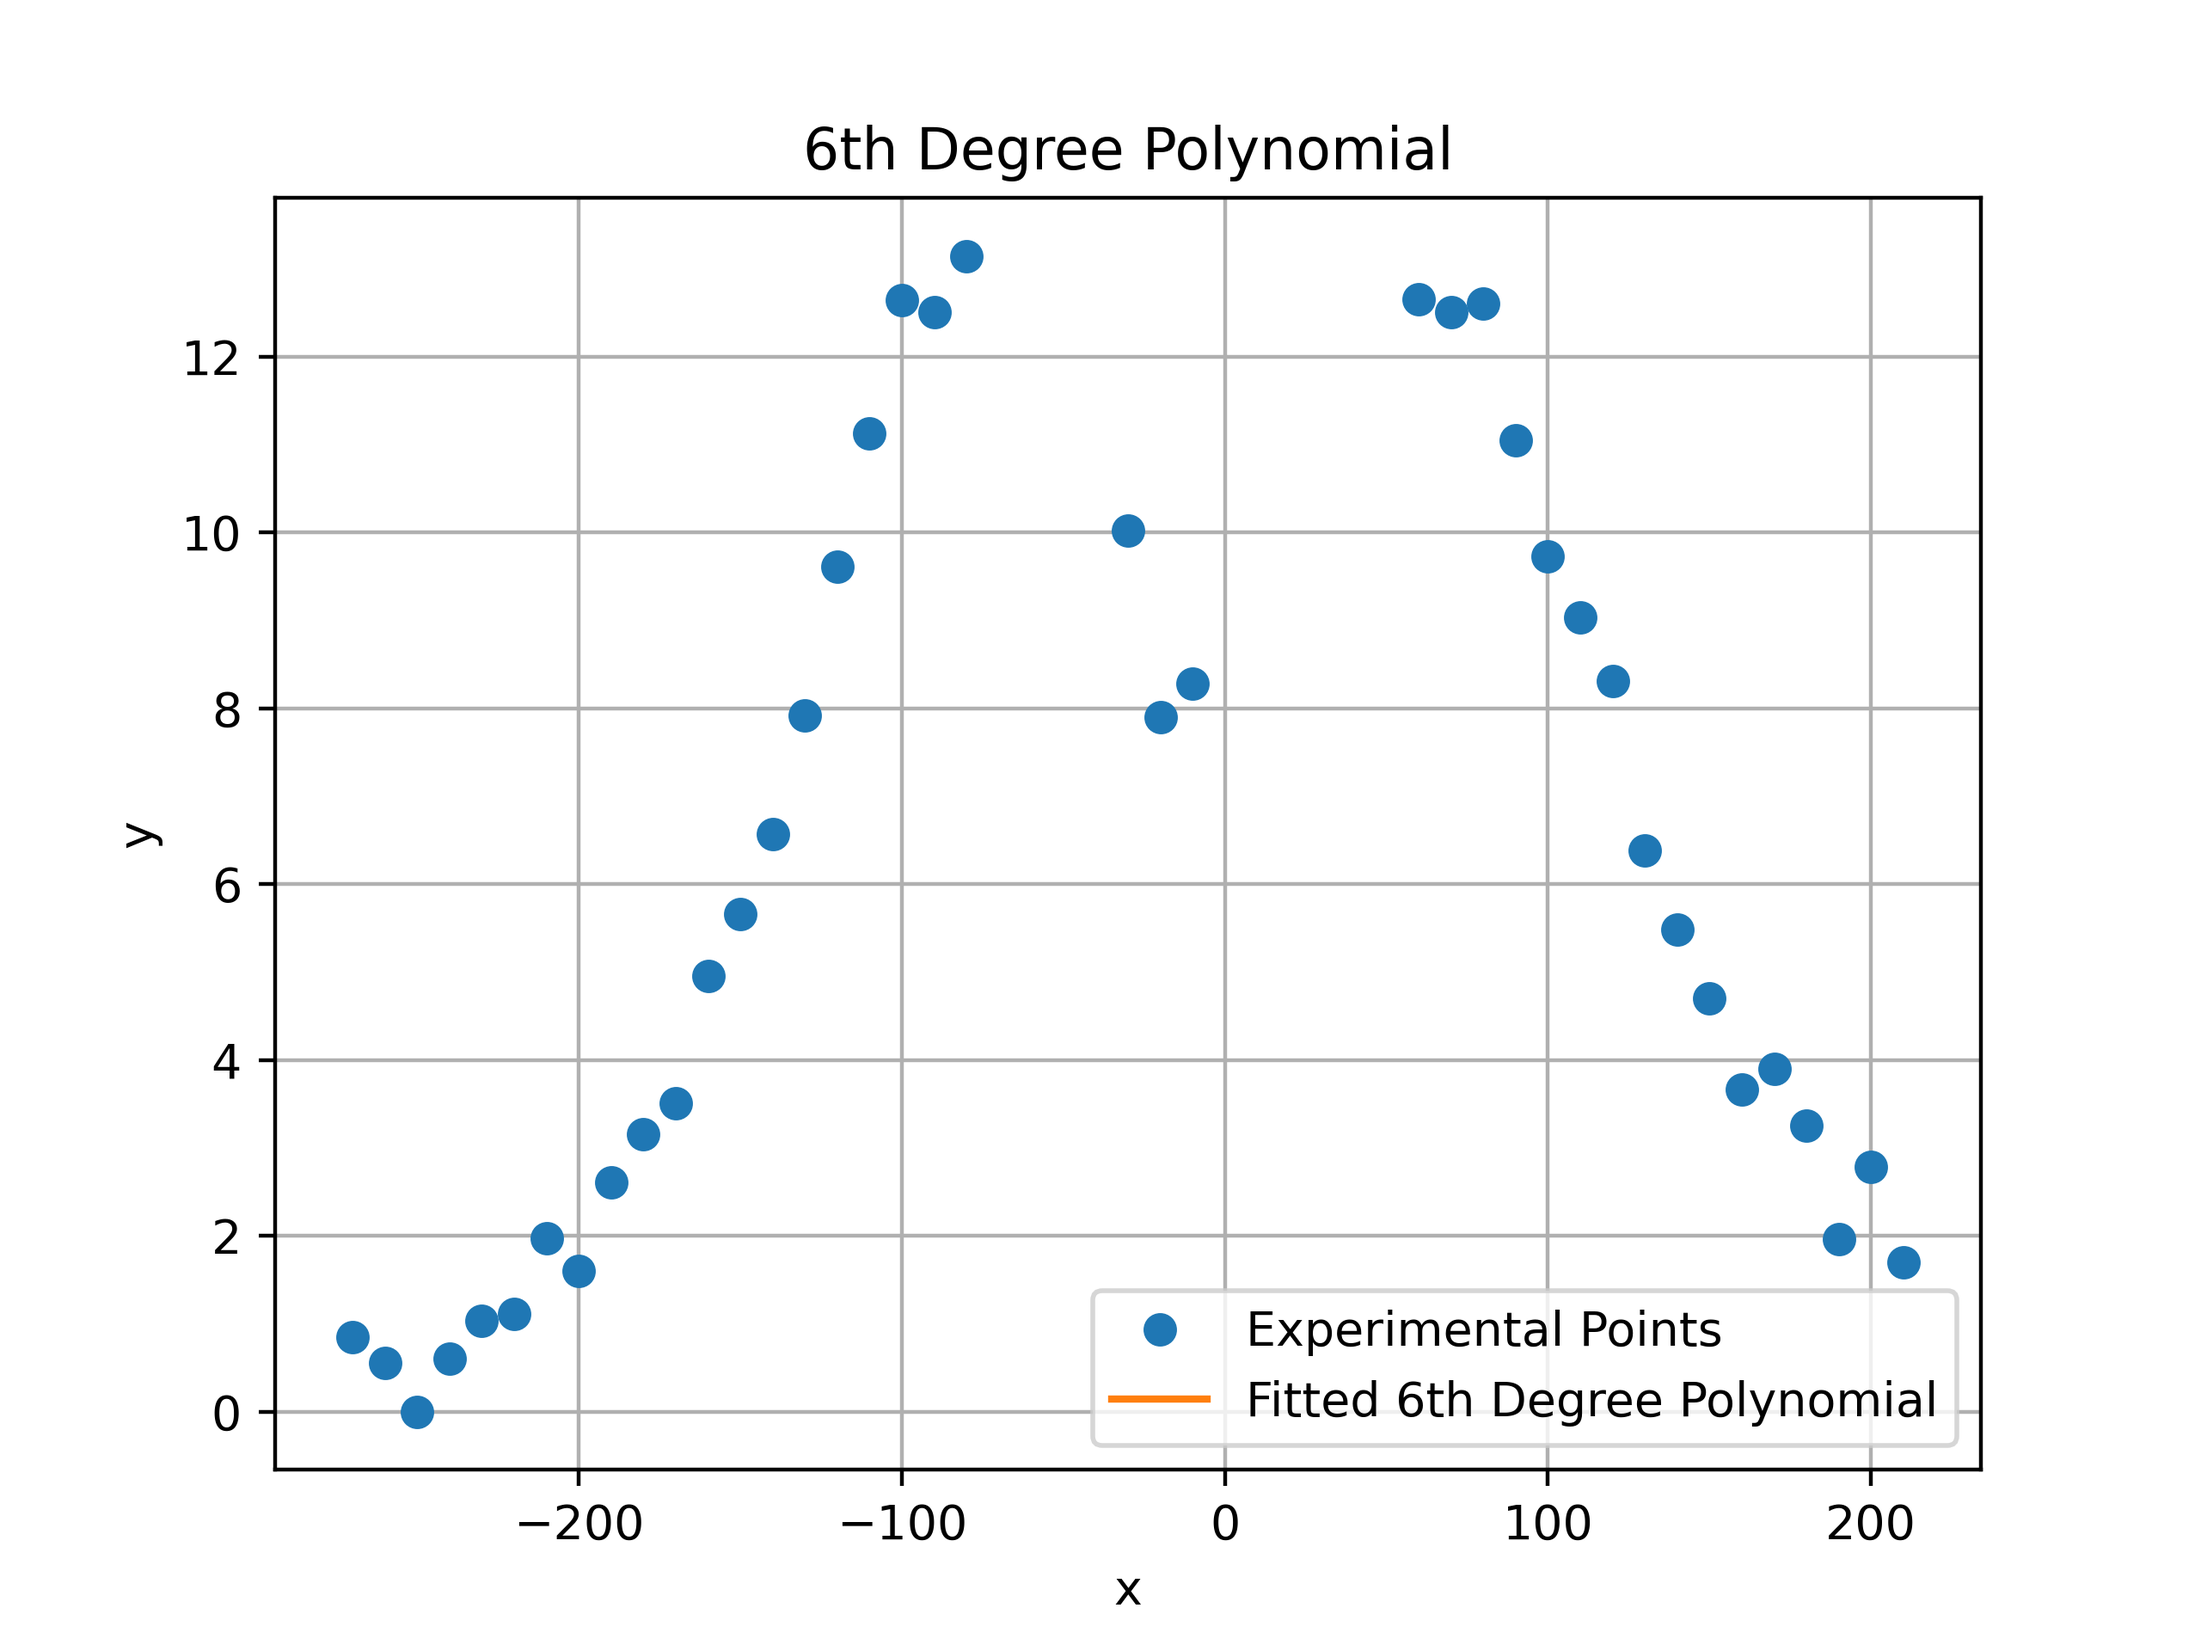
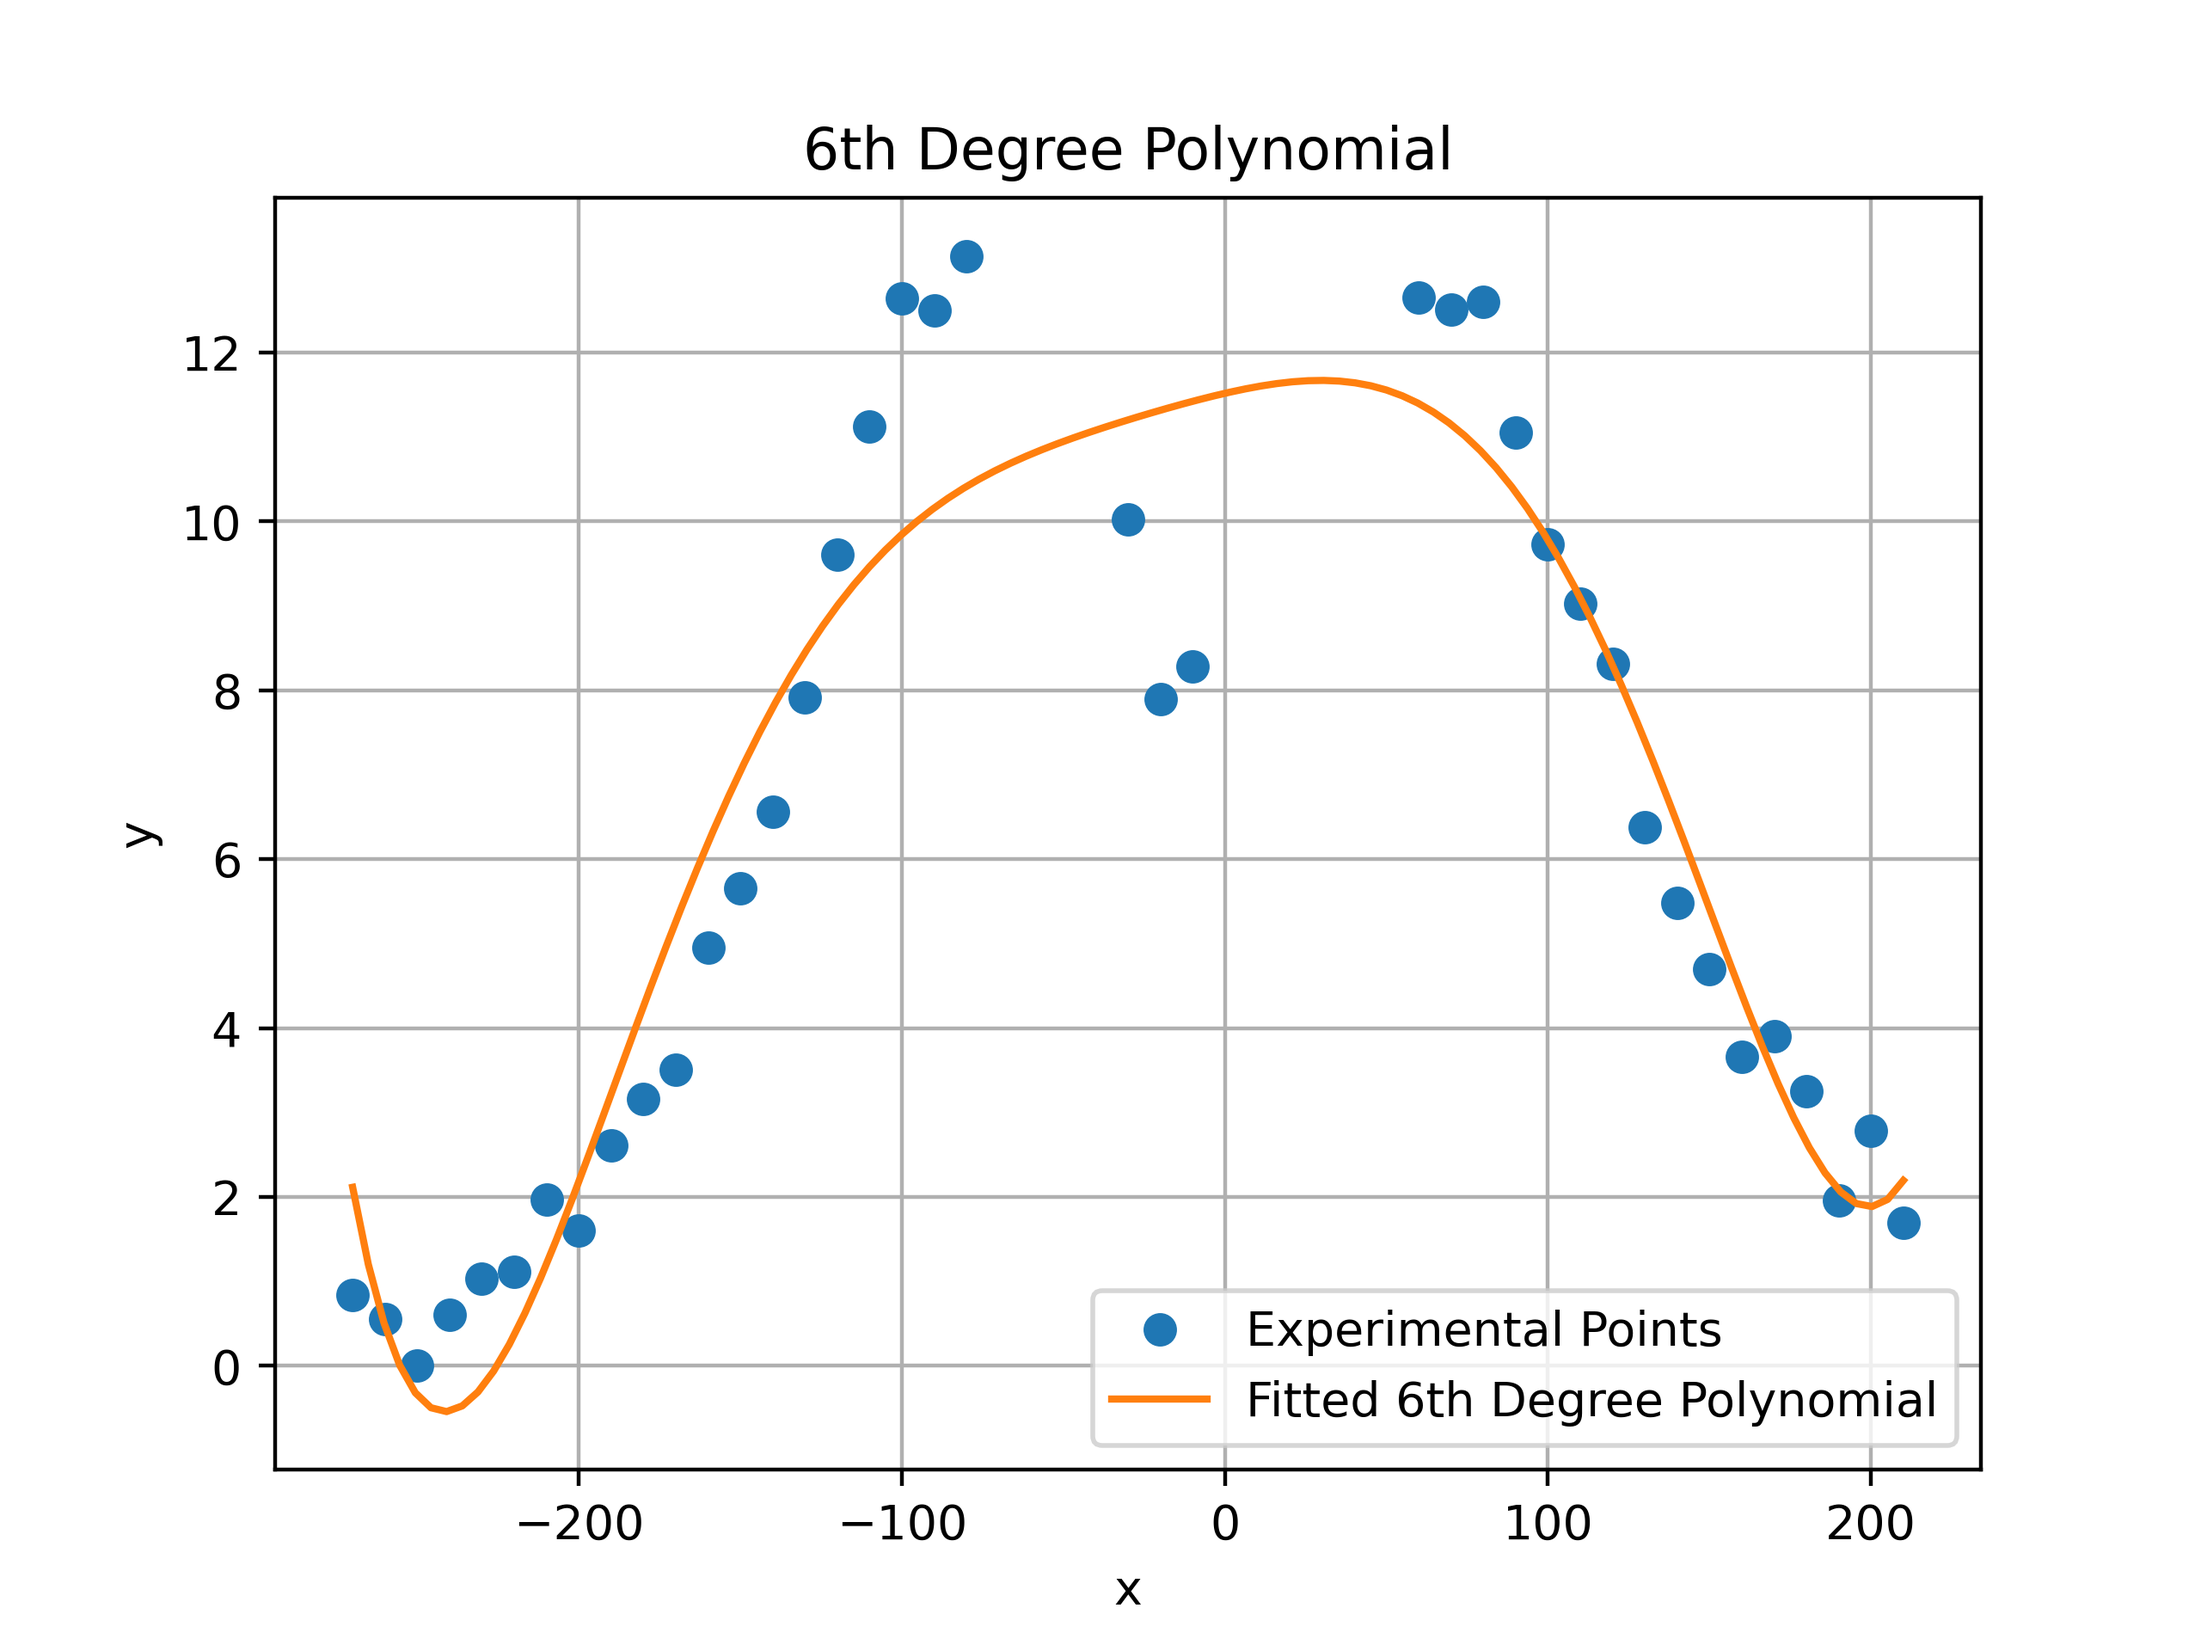
Airy

diff --git a/source/temperature.py b/source/temperature.py
@@ -199,13 +199,10 @@ def temperature_plot(image, line_points, adjusted_x=0, box_y=None, box_x=None, R
     # Sum the y value with the largest y value
     y_points = y_points - min_y
 
-    # Adjust for Rad 
-    y_points = y_points
-
 
     # Intervale to remove
     # pixeis_point_iron = (902 - 997) / 2
-    pixeis_point_iron = 35
+    pixeis_point_iron = 50
 
 
     # Define the condition to keep points outside the interval
@@ -214,6 +211,7 @@ def temperature_plot(image, line_points, adjusted_x=0, box_y=None, box_x=None, R
     # Apply the condition to the x and y arrays
     x_points = np.delete(x_points, np.where(condition))
     y_points = np.delete(y_points, np.where(condition))
+
 
     # Divide by two * pi to get it in radians
     y_points = y_points / 2 / np.pi
@@ -227,9 +225,13 @@ def temperature_plot(image, line_points, adjusted_x=0, box_y=None, box_x=None, R
     plt.savefig(GRAPH_TEMPERATURE_PATH/f"selected_boundary_{title}.png", dpi=400)
     plt.show()
 
+    # Remove nons and zeros
+    x_points = x_points[np.logical_not(np.isnan(y_points))]
+    y_points = y_points[np.logical_not(np.isnan(y_points))]
 
     # Fit a 6th order degree polynomial
     model = np.polyfit(x_points, y_points, 6)
+
 
     # Plot the polynomial
     plt.plot(x_points, y_points, 'o', label='Experimental Points')
@@ -245,7 +247,7 @@ def temperature_plot(image, line_points, adjusted_x=0, box_y=None, box_x=None, R
     g, f, e, d, c, b, a = model
 
 
-    r = Rad - Rad / 5000
+    r = Rad - Rad / 1000 
     u = np.sqrt(Rad ** 2 - r ** 2)
     nr = - 1 / np.pi * (2 * c * u + 4 * e * (u * r**2 + u**3 / 3) + 6 * g * (u*r**4 + 2*u**3 /3 * r**2 + u**5/5)) + 1
     print(f"nr: {nr}")
